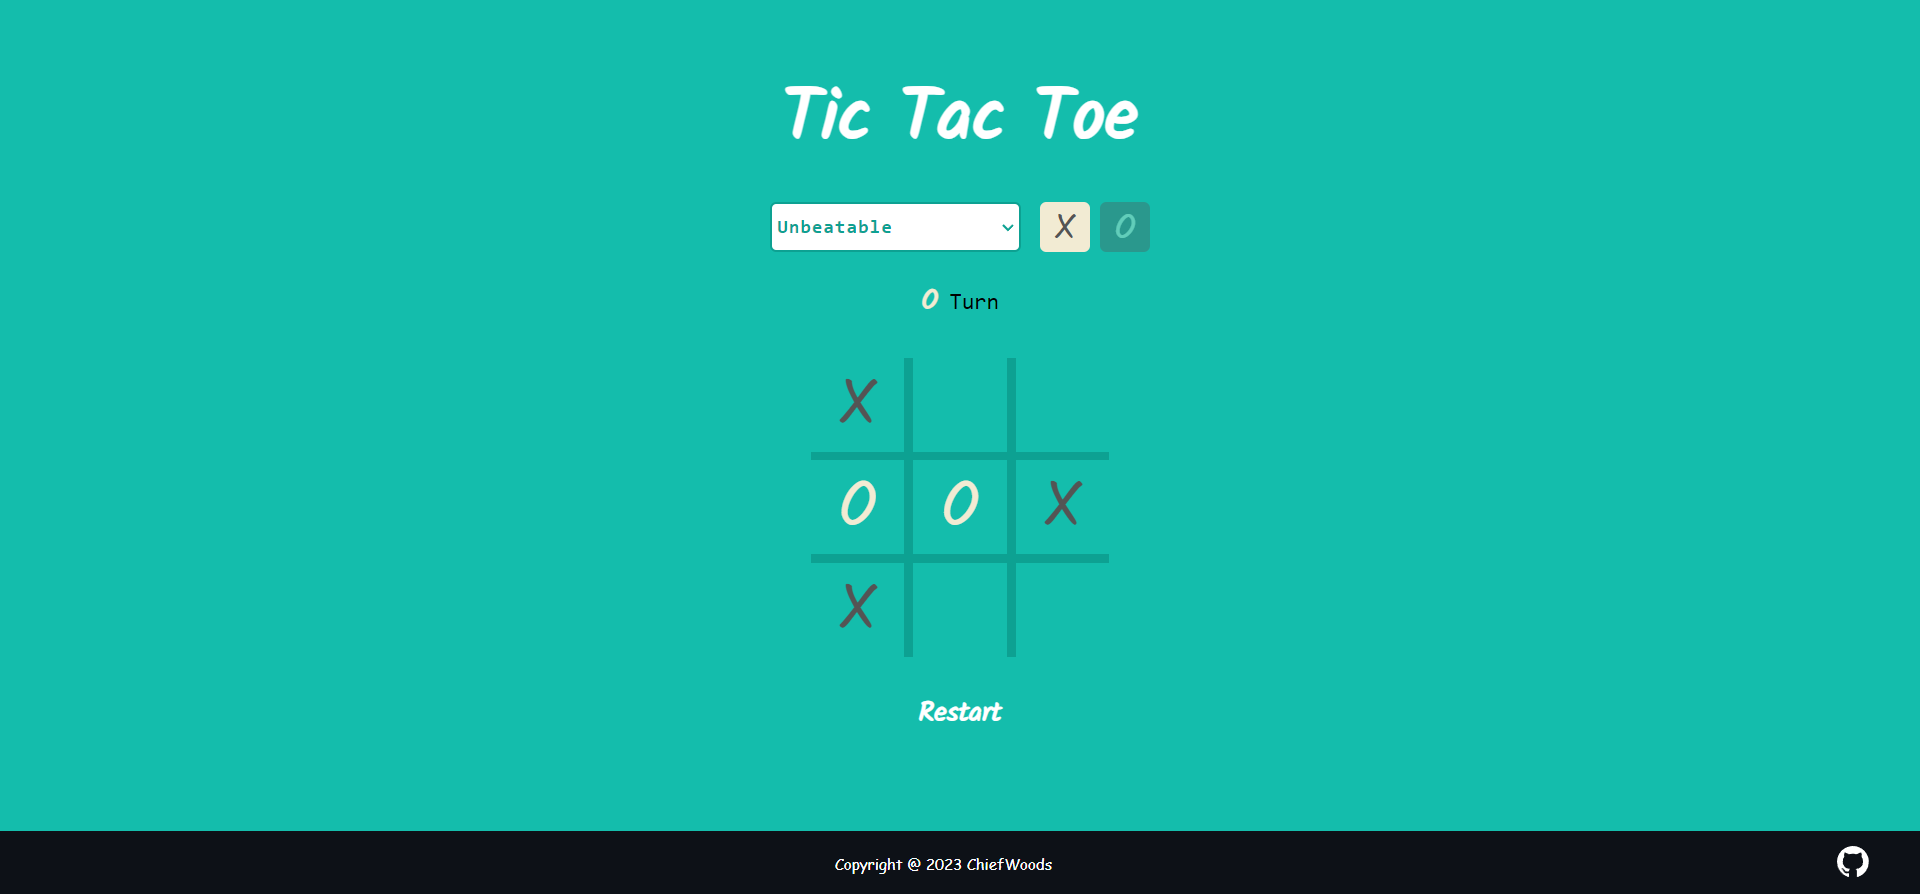
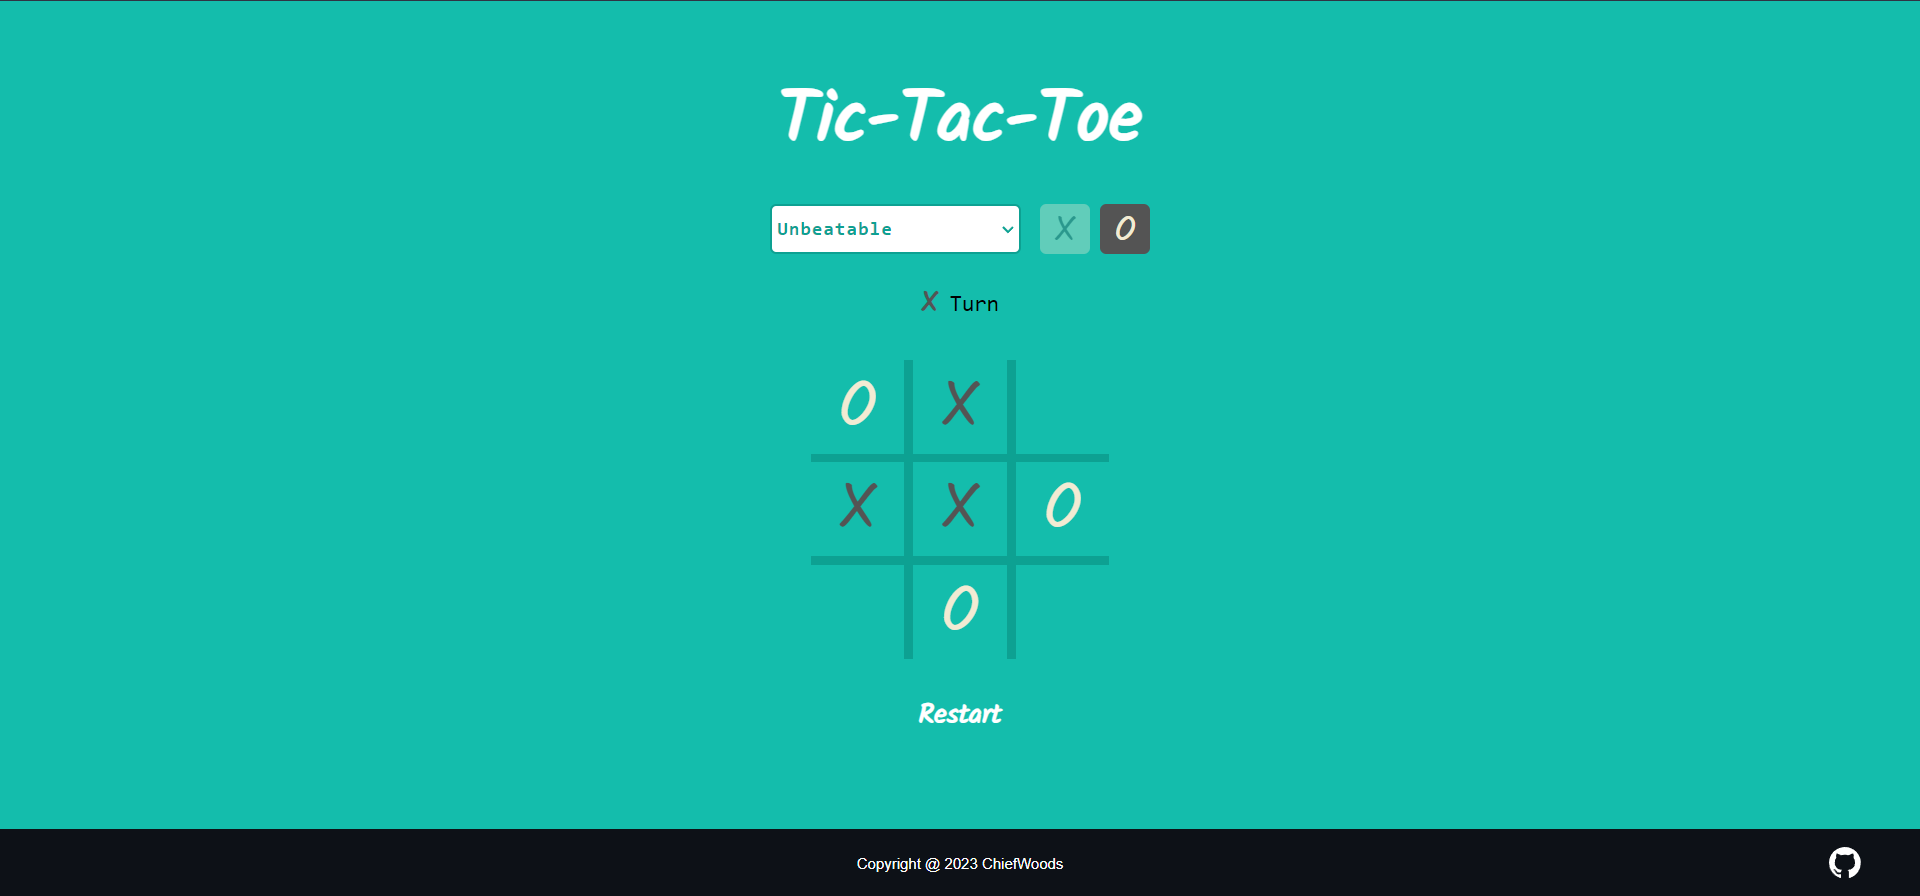
Standardize project name

diff --git a/index.html b/index.html
@@ -5,7 +5,7 @@
     <meta charset="UTF-8">
     <meta http-equiv="X-UA-Compatible" content="IE=edge">
     <meta name="viewport" content="width=device-width, initial-scale=1.0">
-    <title>Tic Tac Toe</title>
+    <title>Tic-Tac-Toe</title>
     <link rel="stylesheet" href="https://chiefwoods.github.io/footer-template/template.css">
     <link rel="stylesheet" href="./styles.css">
     <script src="./script.js" defer></script>
@@ -13,7 +13,7 @@
 
   <body>
     <main>
-      <h1 class="title">Tic Tac Toe</h1>
+      <h1 class="title">Tic-Tac-Toe</h1>
       <div class="menu">
         <select name="difficulty">
           <option value="easy">Easy</option>
